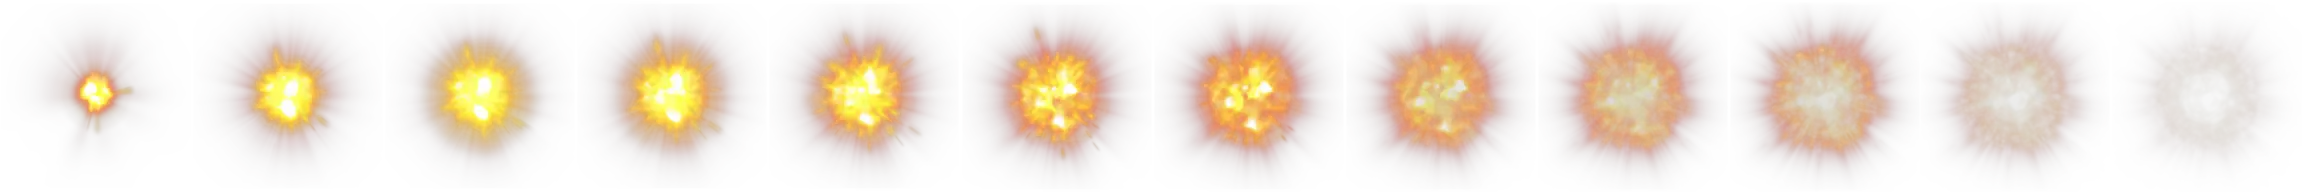
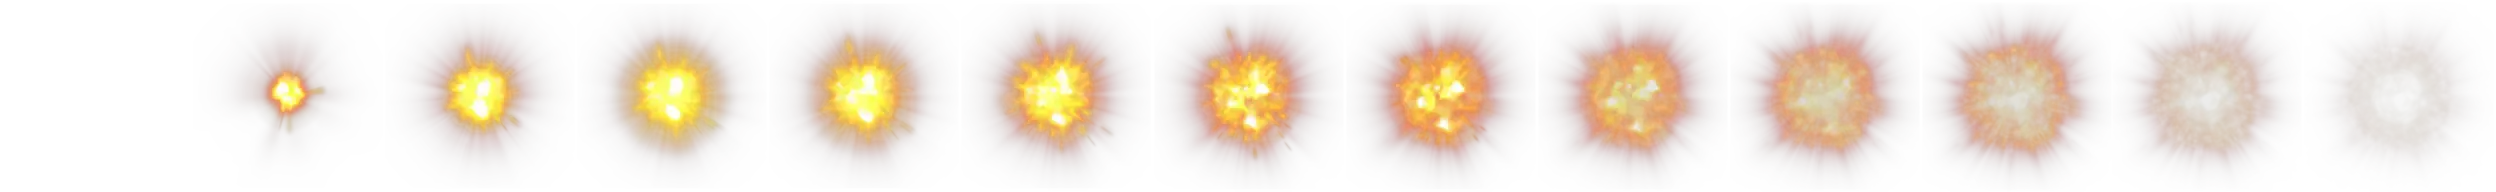
[assets] added frag_grenade

diff --git a/src/dict/ammo/grenade/frag_grenade.ts b/src/dict/ammo/grenade/frag_grenade.ts
@@ -1,8 +1,8 @@
 import { AmmoDictEntity } from "@src/dict/ammo/ammo";
 
-const molotov_cocktail: AmmoDictEntity = {
+const frag_grenade: AmmoDictEntity = {
   class: "grenade_ammo",
-  type: "molotov_cocktail",
+  type: "frag_grenade",
   title: "",
   description: "",
   speed: 6,
@@ -14,16 +14,16 @@ const molotov_cocktail: AmmoDictEntity = {
   sfx: {
     targetReached: {
       src: [
-        "public/assets/weapons/throwable/grenade/molotov_cocktail/explode_1.m4a",
-        "public/assets/weapons/throwable/grenade/molotov_cocktail/explode_2.m4a",
+        "public/assets/weapons/throwable/grenade/grenade_explode_1.m4a",
+        "public/assets/weapons/throwable/grenade/grenade_explode_2.m4a",
       ],
     },
   },
   vfx: {
     targetReached: {
-      type: ["fire-explosion"],
+      type: ["explosion"],
       delayBeforeEmitting: 0,
-      animationDuration: 900,
+      animationDuration: 600,
       light: {
         animationDuration: 100,
         color: "#ffc400",
@@ -33,4 +33,4 @@ const molotov_cocktail: AmmoDictEntity = {
   },
 };
 
-export default molotov_cocktail;
+export default frag_grenade;

diff --git a/src/dict/weapon/throwable/grenade/frag_grenade.ts b/src/dict/weapon/throwable/grenade/frag_grenade.ts
@@ -1,0 +1,44 @@
+import { WeaponDictEntity } from "@src/dict/weapon/weapon";
+
+const frag_grenade: WeaponDictEntity = {
+  class: "throwable",
+  type: "grenade",
+  title: "Frag grenade",
+  description:
+    "A generic fragmentation grenade. Contains a small amount of high explosives, the container itself forming most of the damaging fragments. Explodes on contact.",
+  weight: 1,
+  price: 400,
+  damageType: "normal",
+  attackModes: {
+    throw: {
+      ammoType: "frag_grenade",
+      actionPointsConsumption: 6,
+      ammoConsumption: 1,
+      range: 15,
+      damage: {
+        min: 30,
+        max: 50,
+      },
+      removeFromInventoryAfterUse: true,
+      animationDuration: {
+        attack: 400,
+        attackCompleted: 1000,
+        attackNotAllowed: 1000,
+      },
+    },
+  },
+  sfx: {},
+  gfx: {
+    icon: {
+      size: { width: 58, height: 49 },
+      src: "public/assets/weapons/throwable/grenade/frag_grenade/icon.webp",
+    },
+    isometric: {
+      size: { width: 0, height: 0 },
+      src: "",
+    },
+  },
+  vfx: {},
+};
+
+export default frag_grenade;

diff --git a/src/styles/weapons/throwable/grenade.less b/src/styles/weapons/throwable/grenade.less
@@ -2,12 +2,24 @@
   &[data-name="molotov_cocktail"] {
     background-image: url("/public/assets/weapons/throwable/grenade/molotov_cocktail/icon.webp");
   }
+
+  &[data-name="frag_grenade"] {
+    background-image: url("/public/assets/weapons/throwable/grenade/frag_grenade/icon.webp");
+  }
 }
 
 .ammo {
   &.ammo_molotov_cocktail {
     background-color: transparent;
     background-image: url("/public/assets/weapons/throwable/grenade/molotov_cocktail/icon.webp");
+
+    width: 50px !important;
+    height: 20px !important;
+  }
+
+  &.ammo_frag_grenade {
+    background-color: transparent;
+    background-image: url("/public/assets/weapons/throwable/grenade/frag_grenade/icon.webp");
 
     width: 50px !important;
     height: 20px !important;

diff --git a/src/styles/vfx/explosion.less b/src/styles/vfx/explosion.less
@@ -1,6 +1,6 @@
 @vfx-explosion-sprite-width: 192px;
 @vfx-explosion-sprite-height: 192px;
-@vfx-explosion-sprite-animation-steps: 12;
+@vfx-explosion-sprite-animation-steps: 13;
 
 .vfx-explosion {
   position: absolute;
@@ -8,7 +8,7 @@
   height: @vfx-explosion-sprite-height;
   transform-origin: 67% -30%;
   background-image: url("/public/assets/vfx/explosion.webp");
-  animation: vfx-explosion steps(@vfx-explosion-sprite-animation-steps) backwards;
+  animation: vfx-explosion steps(@vfx-explosion-sprite-animation-steps) forwards;
   transform-style: preserve-3d;
   backface-visibility: hidden;
 

diff --git a/src/dict/weapon/throwable/throwable.ts b/src/dict/weapon/throwable/throwable.ts
@@ -1,8 +1,10 @@
+import frag_grenade from "@src/dict/weapon/throwable/grenade/frag_grenade";
 import molotov_cocktail from "@src/dict/weapon/throwable/grenade/molotov_cocktail";
 import { WeaponDictEntity } from "@src/dict/weapon/weapon";
 
 export const throwable: { [id: string]: WeaponDictEntity } = {
   molotov_cocktail,
+  frag_grenade,
 };
 
 export default throwable;

diff --git a/src/dict/ammo/grenade/_grenade.ts b/src/dict/ammo/grenade/_grenade.ts
@@ -1,8 +1,10 @@
 import { AmmoDictEntity } from "@src/dict/ammo/ammo";
+import frag_grenade from "@src/dict/ammo/grenade/frag_grenade";
 import molotov_cocktail from "@src/dict/ammo/grenade/molotov_cocktail";
 
 const grenade: { [id: string]: AmmoDictEntity } = {
-  molotov_cocktail: molotov_cocktail,
+  molotov_cocktail,
+  frag_grenade,
 };
 
 export default grenade;

diff --git a/src/dict/ammo/ammo.ts b/src/dict/ammo/ammo.ts
@@ -17,6 +17,7 @@ export type WeaponAmmoType =
   | "9mm"
   //
   | "molotov_cocktail"
+  | "frag_grenade"
   //
   | "punch"
   | "throwing_knife";
